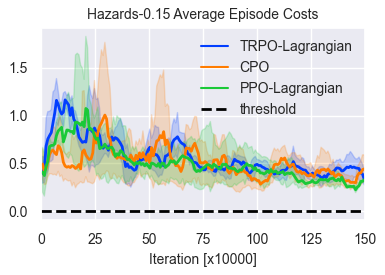
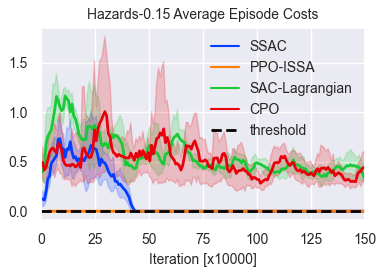
update defense figure

diff --git a/data_process/lineplot_cn.py b/data_process/lineplot_cn.py
@@ -1,3 +1,4 @@
+# -*- coding: utf-8 -*-
 import copy
 import os
 
@@ -7,6 +8,8 @@ import pandas as pd
 import seaborn as sns
 import tensorflow as tf
 from tensorflow.core.util import event_pb2
+from mpl_toolkits.axes_grid1.inset_locator import zoomed_inset_axes
+from mpl_toolkits.axes_grid1.inset_locator import mark_inset
 import os.path as osp
 import tensorboard as tb
 from tensorboard.backend.event_processing import event_accumulator
@@ -14,39 +17,76 @@ import json
 
 paper = True
 sns.set(style="darkgrid")
-if paper: sns.set(font_scale=1.)
+if paper: sns.set(font_scale=1.) # , style="white"
 fontsize = 10 if paper else 16
-SMOOTHFACTOR = 0.1
-SMOOTHFACTOR2 = 5
+SMOOTHFACTOR = 0.15
+SMOOTHFACTOR2 = 24
 DIV_LINE_WIDTH = 50
-txt_store_alg_list = ['CPO', 'PPO-L', 'TRPO-L','PPO-DA','PPO-ISSA']
-env_name_dict = dict(CustomGoal2='Hazards-0.15', CustomGoal3='Hazards-0.30',
-                     CustomGoalPillar2='Pillars-0.15',CustomGoalPillar3='Pillar-0.30')
-tag_name_dict = dict(episode_return='Average Episode Return', episode_cost='Average Episode Costs',
-                     cost_rate='Cost Rate',num_sampled_costs='Accumulative Costs')
+txt_store_alg_list = ['CPO', 'PPO-L', 'TRPO-L','PPO-DA','PPO-H','FSAC-0','PPO-H2',]
+env_name_dict = dict(CustomGoal2='Hazards-0.15-Goal', CustomGoal3='Hazards-0.30-Goal',
+                     CustomGoalPillar2='Pillars-0.15-Goal',CustomGoalPillar3='Pillar-0.30-Goal',
+                     CustomPush1='Hazards-0.15-Push',CustomPush2='Hazards-0.30-Push')
+tag_name_dict = dict(episode_return='平均累计回报', episode_cost='平均约束违反概率',
+                     cost_rate='累计约束违反概率', num_sampled_costs='累计约束违反概率',
+                     ep_phi_increase_times='累计每幕不可行动作数')
+tag_name_dict.update({'scalar/safety_index_k':r'$k$',
+                      'scalar/safety_index_power':r'$n$',
+                      'scalar/safety_index_margin':r'$\sigma$'})
+y_lim_dict=dict(CustomPush2_episode_cost=[-0.5, 5],
+                CustomPush1_episode_cost=[-0.1, 1],
+                CustomGoal3_episode_cost=[-0.3, 3],
+                CustomGoal2_episode_cost=[-0.1, 1],
+                CustomGoal2_ep_phi_increase_times=[-3, 100],
+                CustomGoal3_ep_phi_increase_times=[-3, 100],
+                CustomPush1_ep_phi_increase_times=[-1, 40],
+                CustomPush2_ep_phi_increase_times=[-1, 40])
 label_font_prop = dict(family='Microsoft YaHei', size=16)
 legend_font_prop = dict(family='Microsoft YaHei')
 config = {
     "mathtext.fontset":'stix',
-    # "font.sans-serif":['SimSun']
+    "font.sans-serif":['SimSun']
 }
 plt.rcParams.update(config)
 
 
 def help_func():
-    tag2plot = ['episode_return' ] #  'episode_return',
-    # tag2plot = ['cost_rate']
-    # alg_list = ['TRPO-L', 'CPO', 'PPO-L'] # 'SAC', 'FSAC', 'PPO-ISSA',
-    alg_list = ['FSAC', 'PPO-ISSA', 'TRPO-L', 'CPO']  # 'SAC',, 'PPO-L'
-    lbs = ['SFAC','ISSA', 'SAC-L', 'CPO'] # 'SAC', 'SSAC','PPO-ISSA', , 'PPO-Lagrangian'
-    task = ['CustomGoal2'] # 'CustomGoal2',
+    # tag2plot = ['episode_cost'] #,'episode_cost', 'episode_return'
+    # tag2plot = ['ep_phi_increase_times']
+    tag2plot = ['cost_rate']
+    # alg_list = ['PPO-DA','FSAC', 'FSAC-0', 'TRPO-L', 'CPO', 'PPO-L'] #
+    # alg_list = ['PPO-DA','PPO-H','FSAC-0'] #
+    # alg_list = ['PPO-DA', 'FSAC', 'PPO-H2', 'FSAC-0']  #
+    # alg_list = ['FSAC-A','FSAC','FSAC-0'] # 'FSAC-A'
+    alg_list = ['PPO-DA', 'PPO-H', 'FSAC-0', 'TRPO-L', 'CPO', 'PPO-L']  #
+    # alg_list = ['PPO-DA', 'FSAC', 'FSAC-0', 'TRPO-L', 'CPO', 'PPO-L']  #
+    # lbs = ['SSAC', 'FSAC-A' ] # , 'TRPO-Lagrangian', 'CPO', 'PPO-Lagrangian'
+    # lbs = [r'$\phi_h$', r'$\phi_\xi$']
+    lbs = ['SFACS', r'SFAC-$\phi_h$', r'SFAC-$\phi_0$', 'TRPO-L', 'CPO', 'PPO-L'] #
+    # lbs = ['FAC-SIS',  r'FAC w/ $\phi_h$', r'FAC w/ $\phi_0$',]
+    # task = ['CustomGoal2'] # 'CustomGoal2','CustomPush1','CustomGoal3',
+    task = ['CustomPush2'] # 'CustomGoal2','CustomPush1','CustomGoal3',
+    # task = ['CustomGoalPillar2', 'CustomGoalPillar3']
+
+    # tag2plot = ['ep_phi_increase_times']
+    # lbs = ['SFACS', 'NeuralSI', r'SFAC w/ $\phi_h$', r'SFAC w/ $\phi_0$', ]
+    # alg_list = ['PPO-DA', 'FSAC', 'PPO-H2', 'FSAC-0']  #
+
+    # si_paras
+    # tag2plot = ['scalar/safety_index_k','scalar/safety_index_power','scalar/safety_index_margin']
+    # alg_list = ['FSAC-A']
+    # lbs = ['']
+    # task = ['CustomGoal2']
+    # end
+
     palette = "bright"
     goal_perf_list = [-200, -100, -50, -30, -20, -10, -5]
     dir_str = '../results/{}/{}' # .format(algo name) # /data2plot
-    return tag2plot, alg_list, task, lbs, palette, goal_perf_list, dir_str
+    zoom = True # if tag2plot[0] == 'episode_cost' else False
+    return tag2plot, alg_list, task, lbs, palette, goal_perf_list, dir_str, zoom
 
-def plot_eval_results_of_all_alg_n_runs(dirs_dict_for_plot=None, base = False):
-    tag2plot, alg_list, task_list, lbs, palette, _, dir_str = help_func()
+def plot_eval_results_of_all_alg_n_runs(dirs_dict_for_plot=None, hide_legend=False):
+    tag2plot, alg_list, task_list, lbs, palette, _, dir_str, zoom = help_func()
+    hide_legend=True
     df_dict = {}
     df_in_one_run_of_one_alg = {}
     for task in task_list:
@@ -78,11 +118,13 @@ def plot_eval_results_of_all_alg_n_runs(dirs_dict_for_plot=None, base = False):
                             if event.step % 10000 != 0: continue
                             for v in event.summary.value:
                                 t = tf.make_ndarray(v.tensor)
-                                tag_in_events = 'evaluation/' + tag if tag.startswith('ep') else 'optimizer/' + tag
+                                tag_in_events = 'evaluation/' + tag if tag.startswith('ep') else 'optimizer/learner_stats/' + tag # todo: optimizer name
                                 if tag_in_events == v.tag:
                                     if tag == 'episode_return':
                                         t = np.clip(t, -2.0, 100.0)
                                     if tag == 'episode_cost':
+                                        t = 0.0 if event.step > 1000000 else t
+                                    if tag == 'ep_phi_increase_times' and alg == 'FSAC-A':
                                         t = 0.0 if event.step > 1000000 else t
                                     data_in_one_run_of_one_alg[tag].append((1-SMOOTHFACTOR)*data_in_one_run_of_one_alg[tag][-1] + SMOOTHFACTOR*float(t)
                                                                            if data_in_one_run_of_one_alg[tag] else float(t))
@@ -100,29 +142,69 @@ def plot_eval_results_of_all_alg_n_runs(dirs_dict_for_plot=None, base = False):
             axes_size = [0.13, 0.14, 0.85, 0.80]  if paper else [0.13, 0.11, 0.86, 0.84]
             f1 = plt.figure() # figsize=figsize
             ax1 = plt.axes() # f1.add_axes(axes_size)
-            sns.lineplot(x="iteration", y=tag, hue="algorithm",
-                         data=total_dataframe, linewidth=2, palette=palette
+            sns.lineplot(x="iteration", y=tag, hue="algorithm", ci='sd',
+                         data=total_dataframe, linewidth=2, palette=palette, style="algorithm", dashes=True,
                          )
-            title = env_name_dict[task] + ' ' + tag_name_dict[tag]
+            title = '$\mathrm{{{env_name}}}$ '.format(env_name=env_name_dict[task]) + tag_name_dict[tag]
             ax1.set_ylabel('')
-            ax1.set_xlabel("Iteration [x10000]", fontsize=fontsize)
+            ax1.set_xlabel("迭代次数 $\mathrm{[x10000]}$", fontsize=fontsize)
             handles, labels = ax1.get_legend_handles_labels()
             labels = lbs
-            if base:
-                basescore = sns.lineplot(x=[0., 150.], y=[0.0, 0.0], linewidth=2, color='black', linestyle='--')
-                ax1.legend(handles=handles + [basescore.lines[-1]], labels=labels + ['threshold'], loc='best',
-                       frameon=False, fontsize=fontsize)
-            else:
+            if not hide_legend:
                 ax1.legend(handles=handles, labels=labels, loc='best', frameon=False, fontsize=fontsize)
-            plt.yticks(fontsize=fontsize)
-            plt.xticks(fontsize=fontsize)
+            plt.yticks(fontsize=fontsize, fontproperties='Times New Roman')
+            plt.xticks(fontsize=fontsize, fontproperties='Times New Roman')
             plt.xlim([0, 150])
+            fig_handle = task +'_' + tag
+            print(fig_handle)
+            if fig_handle in y_lim_dict.keys():
+                ax1.set_ylim(*y_lim_dict.get(fig_handle))
             plt.title(title, fontsize=fontsize)
             plt.gcf().set_size_inches(3.85, 2.75)
+            plt.grid(False)
             plt.tight_layout(pad=0.5)
+            if tag == 'ep_phi_increase_times':
+                ax1.set_ylim([-2, ax1.get_ylim()[1]])
             # plt.show()
-            fig_name = '../data_process/figure/T_Newbaseline-' + task+'-'+tag + '.png' if not base else '../data_process/figure/nonzero.png'
+            if tag.startswith('scalar/'):
+                tag = tag[7:]
+            fig_name = '../data_process/figure/thesis_zoom_no_legend_' + task+'-'+tag + '.pdf' if hide_legend else \
+                '../data_process/figure/thesis_' + task+'-'+tag + '.pdf'
+            if hide_legend:
+                h, l = ax1.get_legend_handles_labels()
+                ax1.legend().remove()
+            if zoom:
+                y_lim = ax1.get_ylim()[0]
+                axins = zoomed_inset_axes(ax1, 2)
+                sns.lineplot(x="iteration", y=tag, hue="algorithm",
+                             data=total_dataframe, linewidth=2, palette=palette,
+                             style="algorithm", dashes=True
+                             )
+                axins.set_xlim([134, 149])
+                # axins.set_ylim([0.9*y_lim, -0.9*y_lim])
+                axins.set_ylim([y_lim, 0.001])
+                axins.set_xlabel('')
+                axins.set_ylabel('')
+                axins.set_yticklabels(['0.0'])
+                plt.xticks(visible=False)
+                axins.legend().remove()
+                mark_inset(ax1, axins, loc1=3, loc2=4, fc='none', ec='0.0')
             plt.savefig(fig_name)
+        if hide_legend:
+            legfig, legax = plt.subplots(figsize=(10, 0.75))
+            legax.set_facecolor('white')
+            if 'ep_phi_increase_times' in tag2plot:
+                leg = legax.legend(h, lbs, loc='center', ncol=len(lbs), handlelength=2.5,
+                               mode="expand", borderaxespad=0., prop={'family':'Times New Roman', 'size': 13})
+                for line in leg.get_lines():
+                    line.set_linewidth(4.0)
+            legax.xaxis.set_visible(False)
+            legax.yaxis.set_visible(False)
+            plt.grid(False)
+            plt.tight_layout(pad=0.5)
+            fig_name = '../data_process/figure/thesis_legends_short.png' if tag == 'ep_phi_increase_times' else '../data_process/figure/thesis_legends.png'
+            plt.savefig(fig_name)
+
 
 
 def get_datasets(logdir, tag2plot, alg, condition=None, smooth=SMOOTHFACTOR2, num_run=0):
@@ -151,12 +233,26 @@ def get_datasets(logdir, tag2plot, alg, condition=None, smooth=SMOOTHFACTOR2, nu
             exp_data.insert(len(exp_data.columns), 'episode_cost', exp_data['AverageEpCost'])
             exp_data.insert(len(exp_data.columns), 'cost_rate', exp_data['CostRate'])
             exp_data.insert(len(exp_data.columns), 'num_sampled_costs', exp_data['CumulativeCost'])
+            try:
+                exp_data.insert(len(exp_data.columns), 'ep_phi_increase_times', exp_data['AverageEpPhiCstrVio'])
+            except: pass
             exp_data.insert(len(exp_data.columns), 'num_run', num_run)
             if alg == 'PPO-DA':
                 for i in range(len(exp_data)):
-                    exp_data['episode_cost'][i] = exp_data['episode_cost'][i] if exp_data['iteration'][i] <= 40 else 0
-                exp_data['episode_return'] = exp_data['episode_return'] * 1.5
-                exp_data['cost_rate'] = exp_data['cost_rate'] * 0.3
+                    exp_data['ep_phi_increase_times'] = np.clip(
+                        exp_data['ep_phi_increase_times'] - exp_data['ep_phi_increase_times'][150], 0, np.inf
+                    )
+                    exp_data['ep_phi_increase_times'][i] = exp_data['ep_phi_increase_times'][i] if exp_data['iteration'][i] <= 100 \
+                        else (150 - exp_data['iteration'][i]) / 50 * exp_data['ep_phi_increase_times'][i]
+                    exp_data['episode_cost'][i] = exp_data['episode_cost'][i] if \
+                    exp_data['iteration'][i] <= 120 \
+                        else 0
+                # exp_data['episode_return'] = exp_data['episode_return'] * 1.5
+                exp_data['cost_rate'] = exp_data['cost_rate'] * 0.7
+            if alg == 'PPO-H':
+                for i in range(len(exp_data)):
+                    exp_data['ep_phi_increase_times'][i] = exp_data['ep_phi_increase_times'][i] if exp_data['iteration'][i] <= 100 \
+                        else (150 - exp_data['iteration'][i]+10) / 60 * exp_data['ep_phi_increase_times'][i]
 
 
             datasets.append(exp_data)
@@ -241,6 +337,6 @@ def load_from_txt(logdir='../results/CPO/PointGoal/pg1', tag=['episode_cost']):
 
 if __name__ == '__main__':
     # env = 'inverted_pendulum_env'  # inverted_pendulum_env path_tracking_env
-    plot_eval_results_of_all_alg_n_runs()
+    plot_eval_results_of_all_alg_n_runs(hide_legend=True)
     # load_from_tf1_event()
     # load_from_txt()

diff --git a/data_process/lineplot_bk.py b/data_process/lineplot_bk.py
@@ -34,12 +34,12 @@ plt.rcParams.update(config)
 
 
 def help_func():
-    tag2plot = ['episode_return' ] #  'episode_return',
+    tag2plot = ['episode_cost' ] #  'episode_return',
     # tag2plot = ['cost_rate']
     # alg_list = ['TRPO-L', 'CPO', 'PPO-L'] # 'SAC', 'FSAC', 'PPO-ISSA',
-    alg_list = ['FSAC', 'PPO-ISSA', 'TRPO-L', 'CPO']  # 'SAC',, 'PPO-L'
-    lbs = ['SFAC','ISSA', 'SAC-L', 'CPO'] # 'SAC', 'SSAC','PPO-ISSA', , 'PPO-Lagrangian'
-    task = ['CustomGoal2'] # 'CustomGoal2',
+    alg_list = ['PPO-DA', 'PPO-ISSA', 'TRPO-L', 'CPO']  # 'SAC',, 'PPO-L'
+    lbs = ['SSAC','PPO-ISSA', 'SAC-Lagrangian', 'CPO'] # 'SAC', 'SSAC','PPO-ISSA', , 'PPO-Lagrangian'
+    task = ['CustomGoalPillar3'] # 'CustomGoal2',
     palette = "bright"
     goal_perf_list = [-200, -100, -50, -30, -20, -10, -5]
     dir_str = '../results/{}/{}' # .format(algo name) # /data2plot
